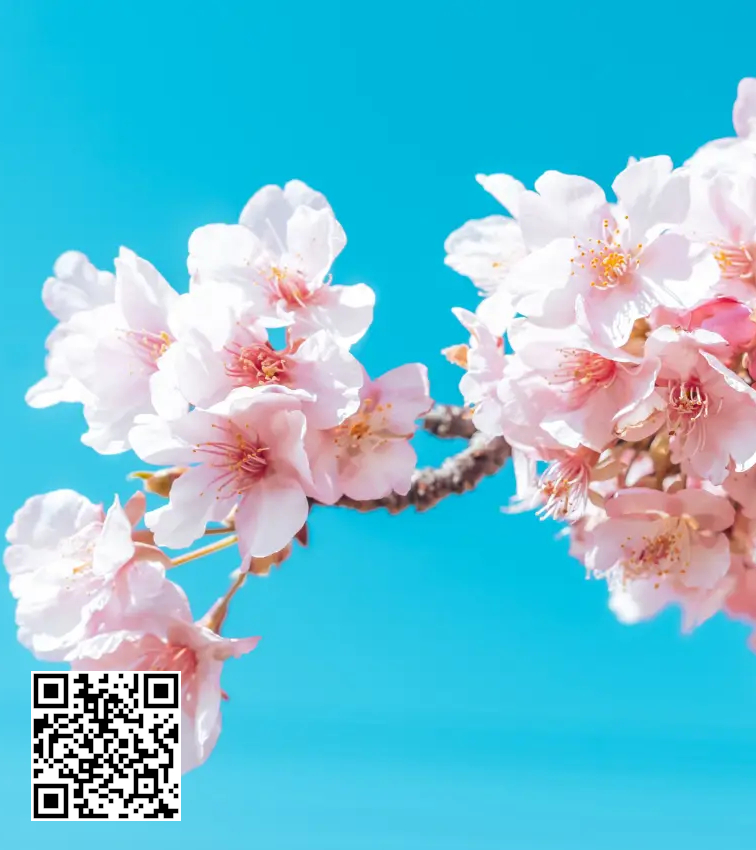
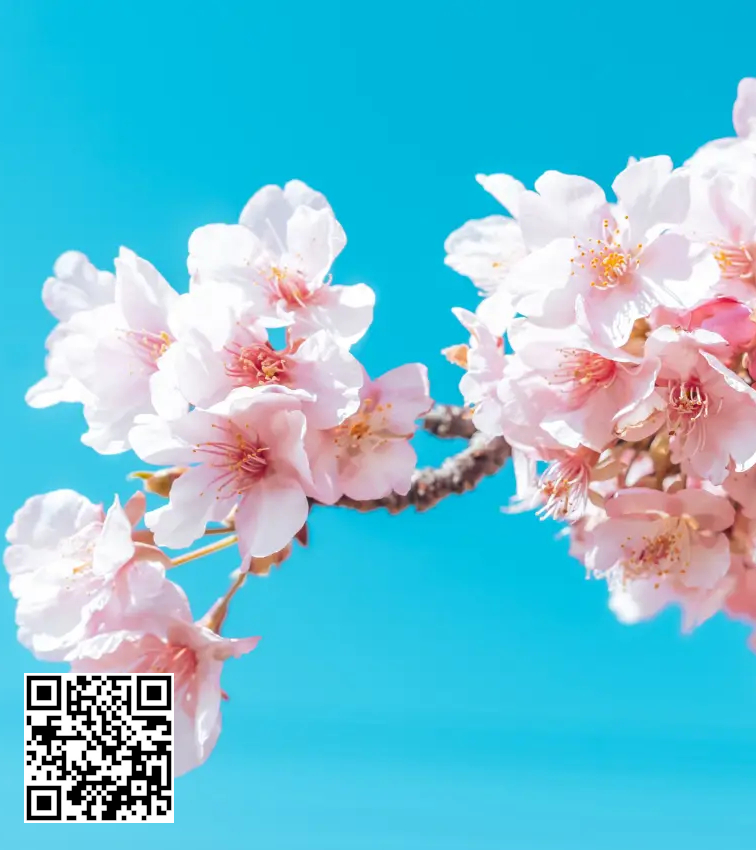
Praveen slide-deck

Changed region(s): [[0.0304, 0.7647, 0.2434, 0.9788]]

diff --git a/praveen/git-talk.html b/praveen/git-talk.html
@@ -14,7 +14,7 @@
 <font size="5"><strong>Co-writing, Version Control and More...</strong></font></h1>
 <h3 id="p-a-praveen">P A Praveen</h3>
 <h5 id="jsps-fellow-tohoku-university-japan">JSPS Fellow, Tohoku University, Japan</h5>
-<p><font size="4"><a href="https://t.ly/wJmCg"><strong>Accesses slide-Deck:</strong> https://t.ly/wJmCg</a></font></p>
+<p><font size="4"><a href="https://t.ly/A1SJu"><strong>Accesses slide-Deck:</strong> https://t.ly/A1SJu</a></font></p>
 <footer>CIT LaTeX Workshop | April 03, 2024 | <strong>Beyond the basics: Co-writing, version control and more...</strong></footer>
 </section>
 </foreignObject><foreignObject width="1280" height="720" data-marpit-advanced-background="pseudo"><section data-paginate="true" data-footer="CIT LaTeX Workshop | April 03, 2024 | **Beyond the basics: Co-writing, version control and more...**" lang="en-US" data-marpit-pagination="1" style="" data-marpit-pagination-total="19" data-marpit-advanced-background="pseudo" data-marpit-advanced-background-split="right"></section></foreignObject></svg><svg data-marpit-svg="" viewBox="0 0 1280 720"><foreignObject width="1280" height="720"><section id="2" data-paginate="true" data-footer="CIT LaTeX Workshop | April 03, 2024 | **Beyond the basics: Co-writing, version control and more...**" lang="en-US" data-marpit-pagination="2" style="--paginate:true;--footer:CIT LaTeX Workshop | April 03, 2024 | **Beyond the basics: Co-writing, version control and more...**;" data-marpit-pagination-total="19">
